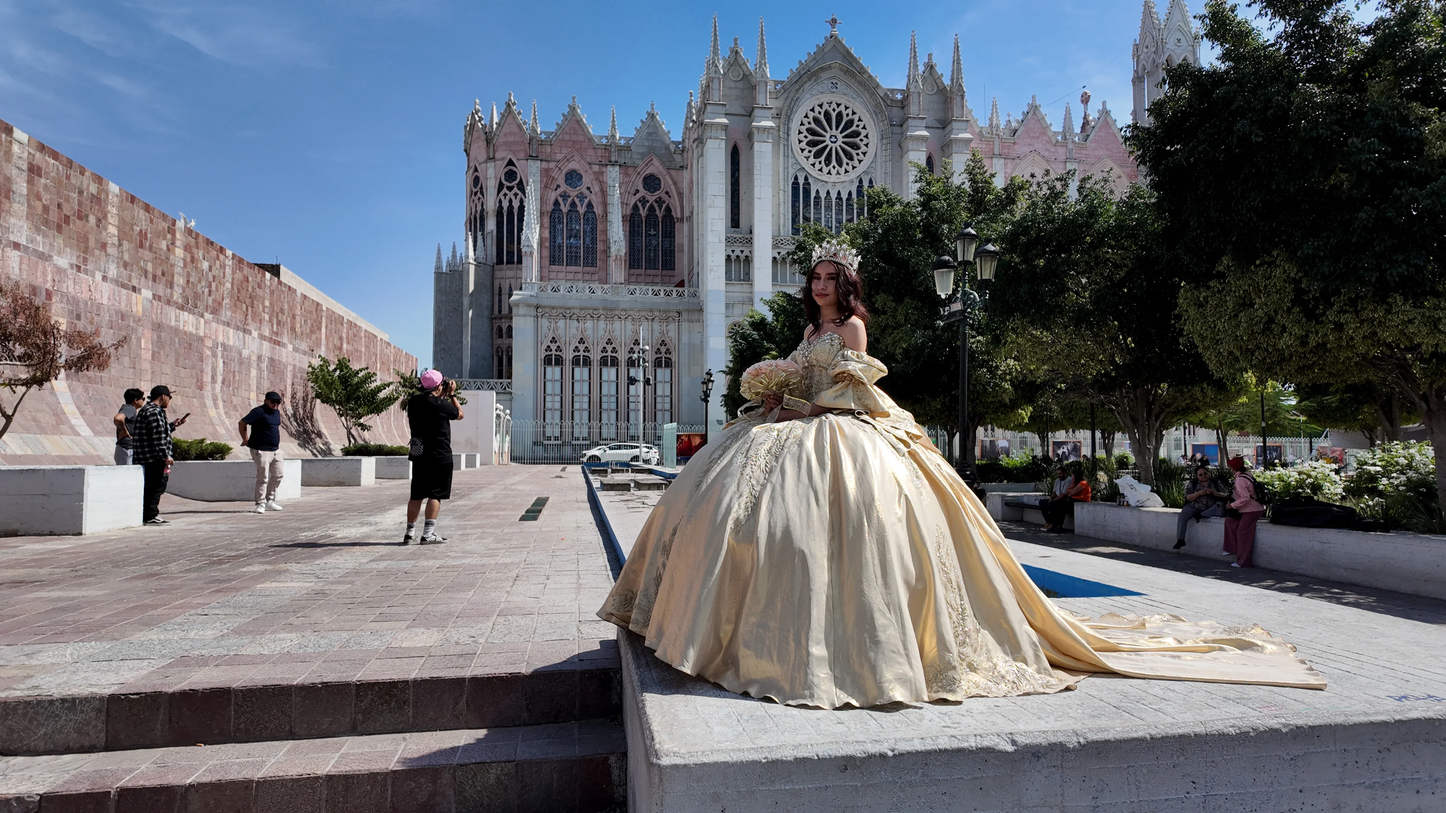
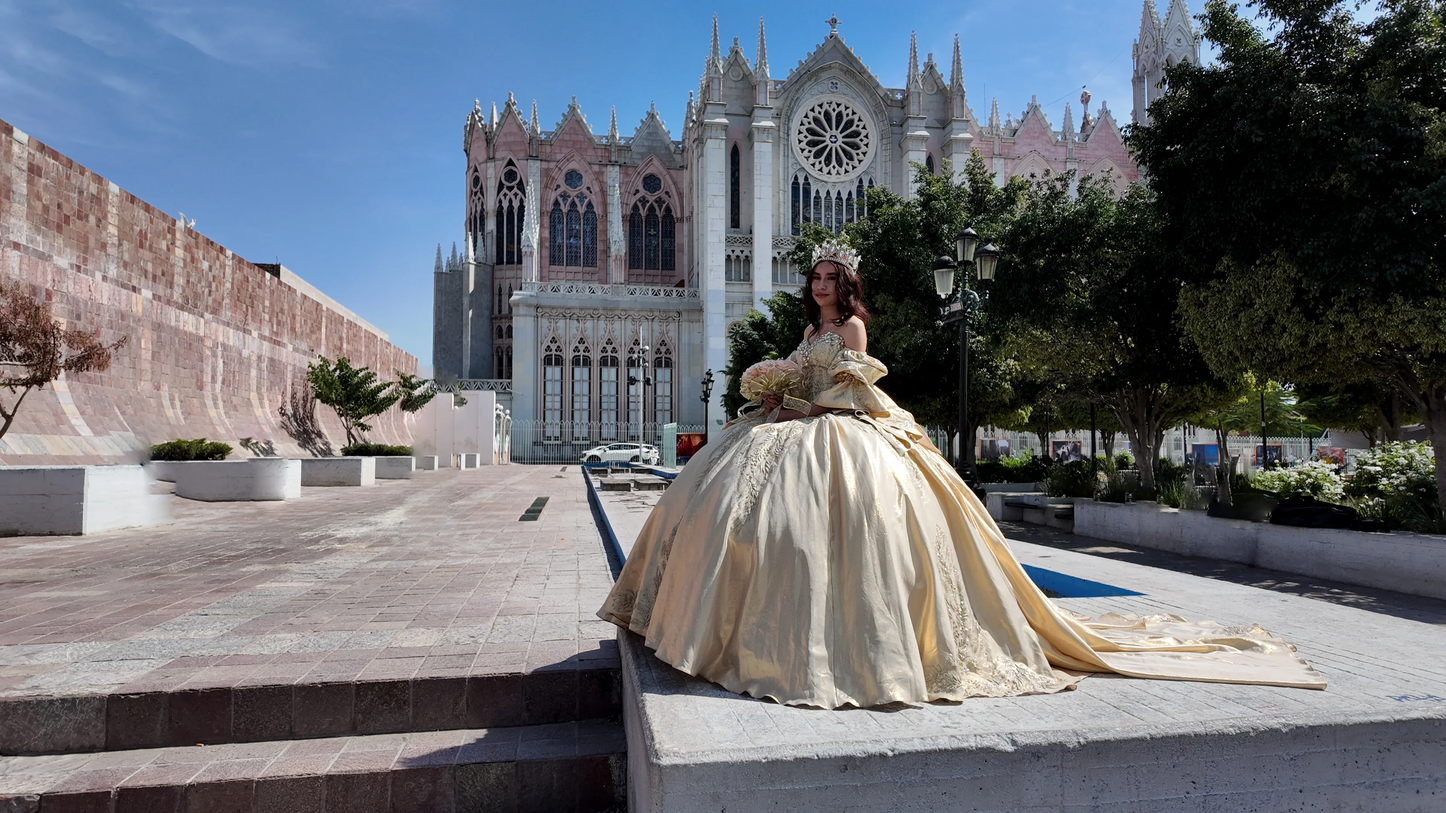
Agregar protección de imágenes y actualizar foto del evento
- Implementar protección contra clic derecho en todas las páginas
- Bloquear arrastre y selección de imágenes
- Actualizar imagen DJI_20251109130445_0060_D.webp con edición mejorada
- Agregar protección en index.html, selector.html, admin.html, contacto.html y contrato.html

🤖 Generated with [Claude Code](https://claude.com/claude-code)

Changed region(s): [[0.0625, 0.4653, 0.2188, 0.6514], [0.7188, 0.5583, 0.9062, 0.7134], [0.1875, 0.4343, 0.3438, 0.6824]]

diff --git a/admin.html b/admin.html
@@ -359,6 +359,29 @@
         </div>
     </div>
 
+    <script>
+        // Deshabilitar clic derecho en todo el sitio
+        document.addEventListener('contextmenu', function(e) {
+            e.preventDefault();
+            return false;
+        });
+
+        // Deshabilitar arrastrar imágenes
+        document.addEventListener('dragstart', function(e) {
+            if (e.target.tagName === 'IMG') {
+                e.preventDefault();
+                return false;
+            }
+        });
+
+        // Deshabilitar selección de imágenes
+        document.addEventListener('selectstart', function(e) {
+            if (e.target.tagName === 'IMG') {
+                e.preventDefault();
+                return false;
+            }
+        });
+    </script>
     <script src="config.js"></script>
     <script>
         // Cargar configuración al abrir la página

diff --git a/contrato.html b/contrato.html
@@ -203,6 +203,29 @@
         </div>
     </div>
 
+    <script>
+        // Deshabilitar clic derecho en todo el sitio
+        document.addEventListener('contextmenu', function(e) {
+            e.preventDefault();
+            return false;
+        });
+
+        // Deshabilitar arrastrar imágenes
+        document.addEventListener('dragstart', function(e) {
+            if (e.target.tagName === 'IMG') {
+                e.preventDefault();
+                return false;
+            }
+        });
+
+        // Deshabilitar selección de imágenes
+        document.addEventListener('selectstart', function(e) {
+            if (e.target.tagName === 'IMG') {
+                e.preventDefault();
+                return false;
+            }
+        });
+    </script>
     <script src="js/script.js"></script>
 </body>
 </html>

diff --git a/index.html b/index.html
@@ -733,6 +733,28 @@
             link.click();
             document.body.removeChild(link);
         }
+
+        // Deshabilitar clic derecho en todo el sitio
+        document.addEventListener('contextmenu', function(e) {
+            e.preventDefault();
+            return false;
+        });
+
+        // Deshabilitar arrastrar imágenes
+        document.addEventListener('dragstart', function(e) {
+            if (e.target.tagName === 'IMG') {
+                e.preventDefault();
+                return false;
+            }
+        });
+
+        // Deshabilitar selección de imágenes
+        document.addEventListener('selectstart', function(e) {
+            if (e.target.tagName === 'IMG') {
+                e.preventDefault();
+                return false;
+            }
+        });
     </script>
 </body>
 </html>

diff --git a/contacto.html b/contacto.html
@@ -181,6 +181,28 @@
     </div>
 
     <script>
+        // Deshabilitar clic derecho en todo el sitio
+        document.addEventListener('contextmenu', function(e) {
+            e.preventDefault();
+            return false;
+        });
+
+        // Deshabilitar arrastrar imágenes
+        document.addEventListener('dragstart', function(e) {
+            if (e.target.tagName === 'IMG') {
+                e.preventDefault();
+                return false;
+            }
+        });
+
+        // Deshabilitar selección de imágenes
+        document.addEventListener('selectstart', function(e) {
+            if (e.target.tagName === 'IMG') {
+                e.preventDefault();
+                return false;
+            }
+        });
+
         function handleFormSubmit(event) {
             event.preventDefault();
 

diff --git a/selector.html b/selector.html
@@ -1012,6 +1012,14 @@
             }
         });
 
+        // Deshabilitar selección de imágenes
+        document.addEventListener('selectstart', function(e) {
+            if (e.target.tagName === 'IMG') {
+                e.preventDefault();
+                return false;
+            }
+        });
+
         // Variables globales
         // photos se carga desde photos_list.js
         let currentPhotoIndex = 0;
